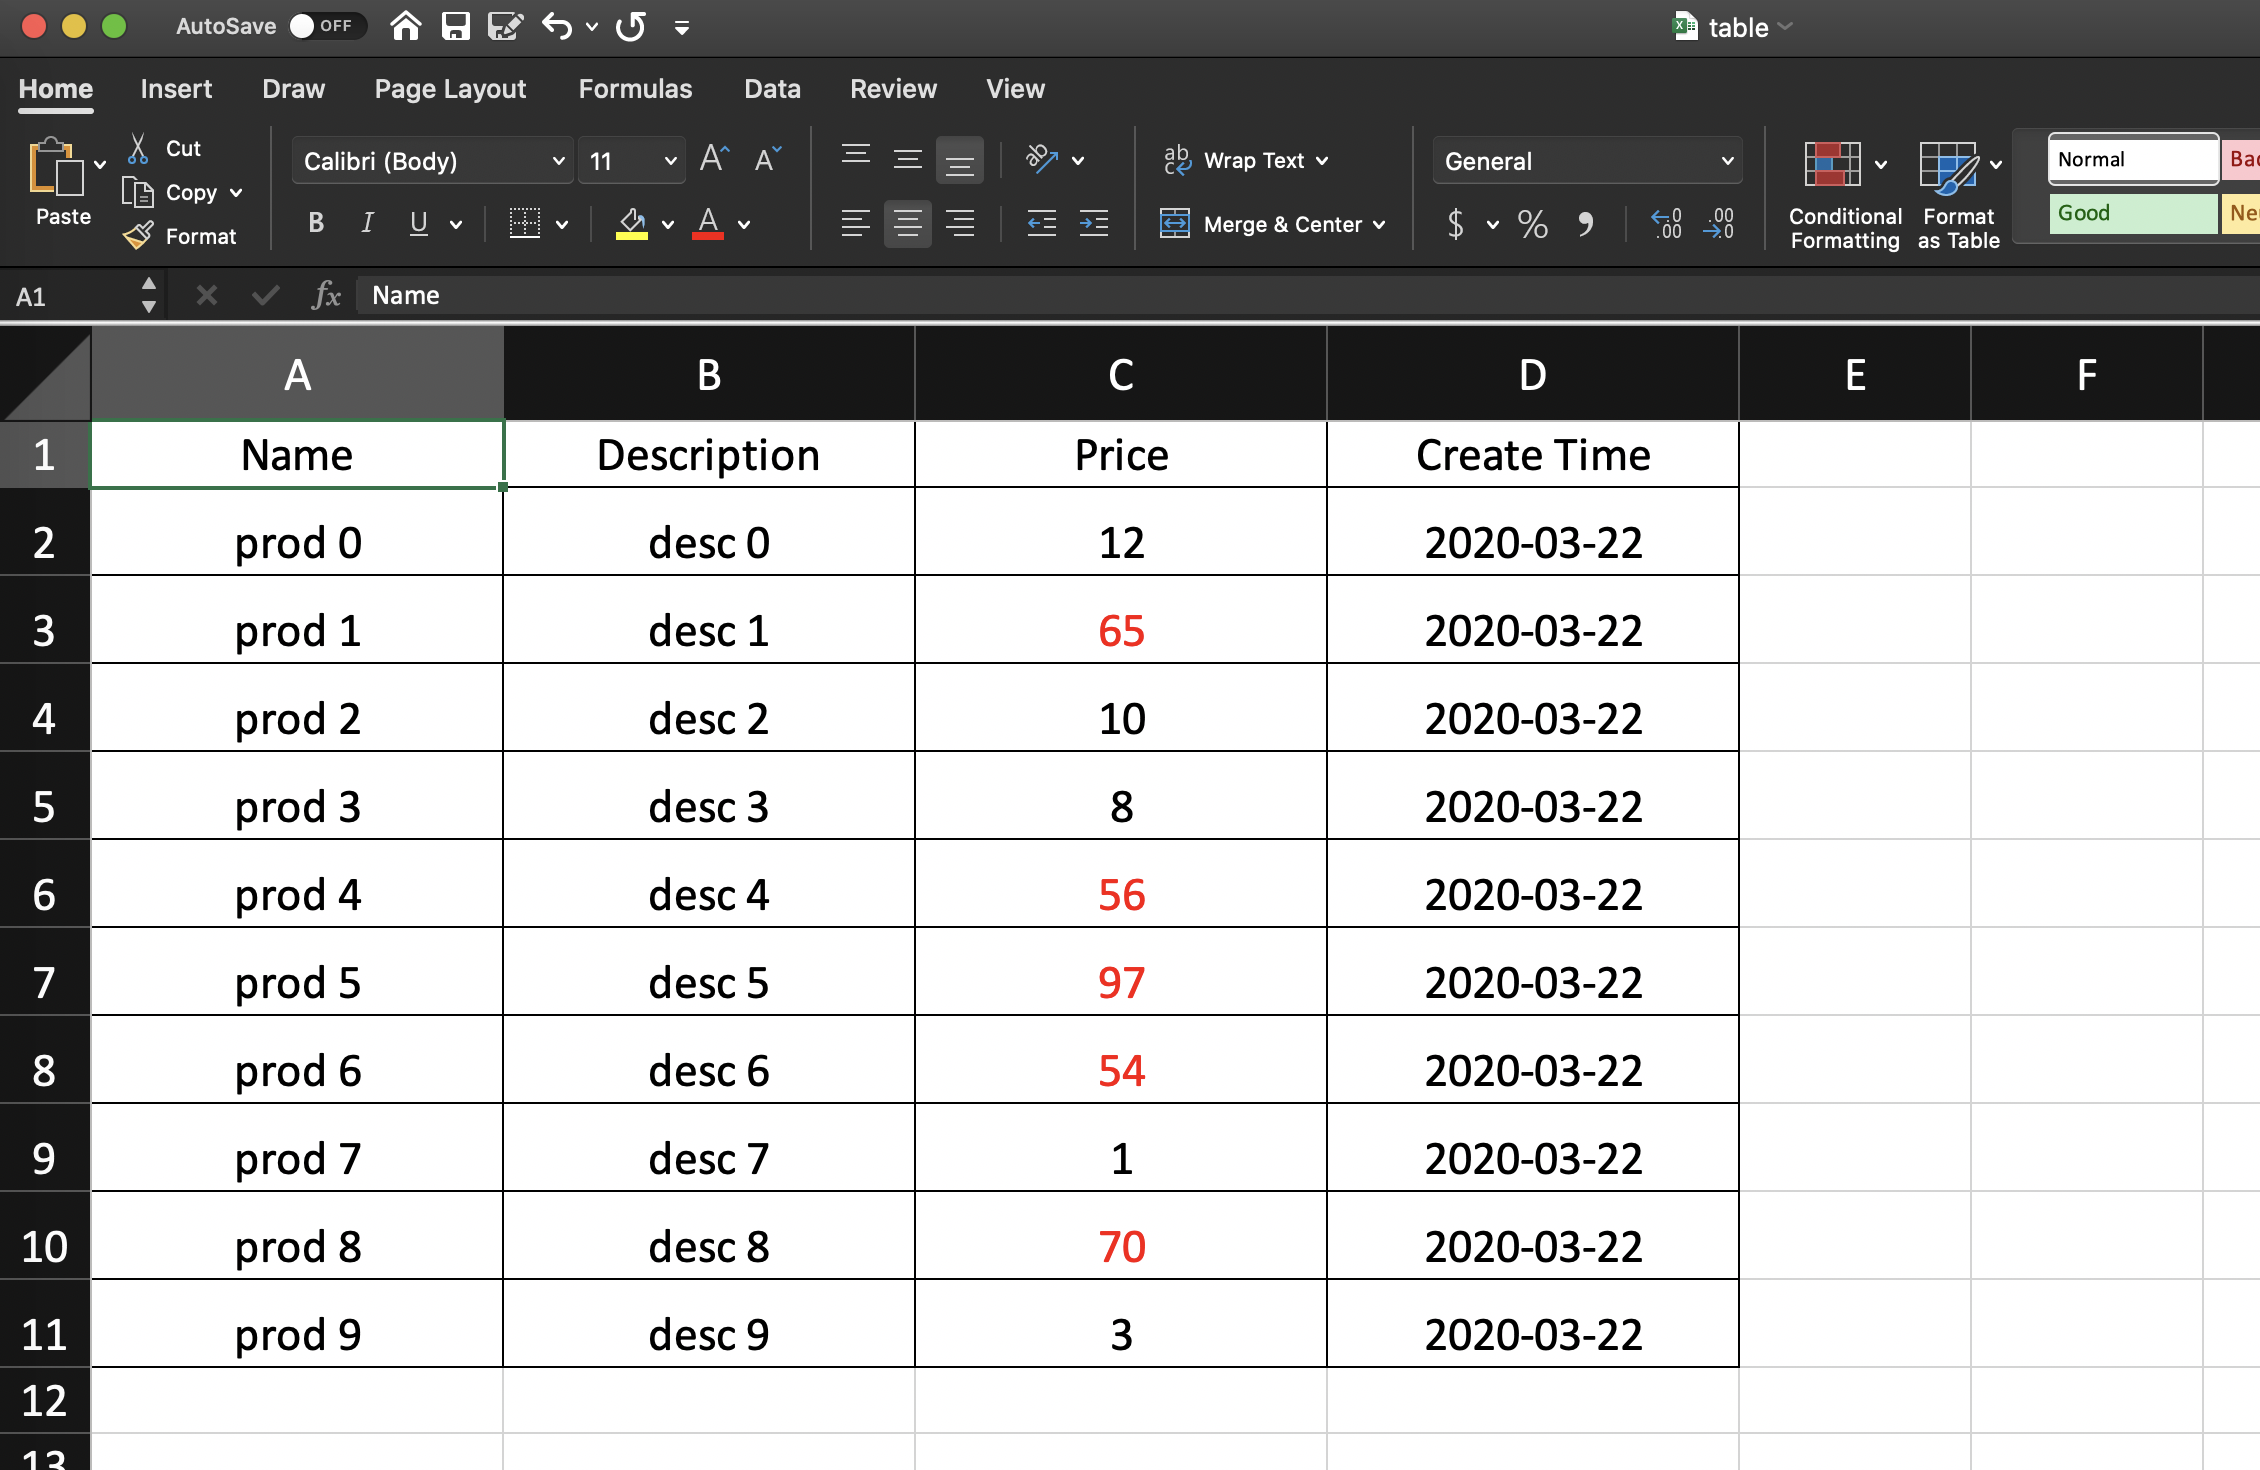
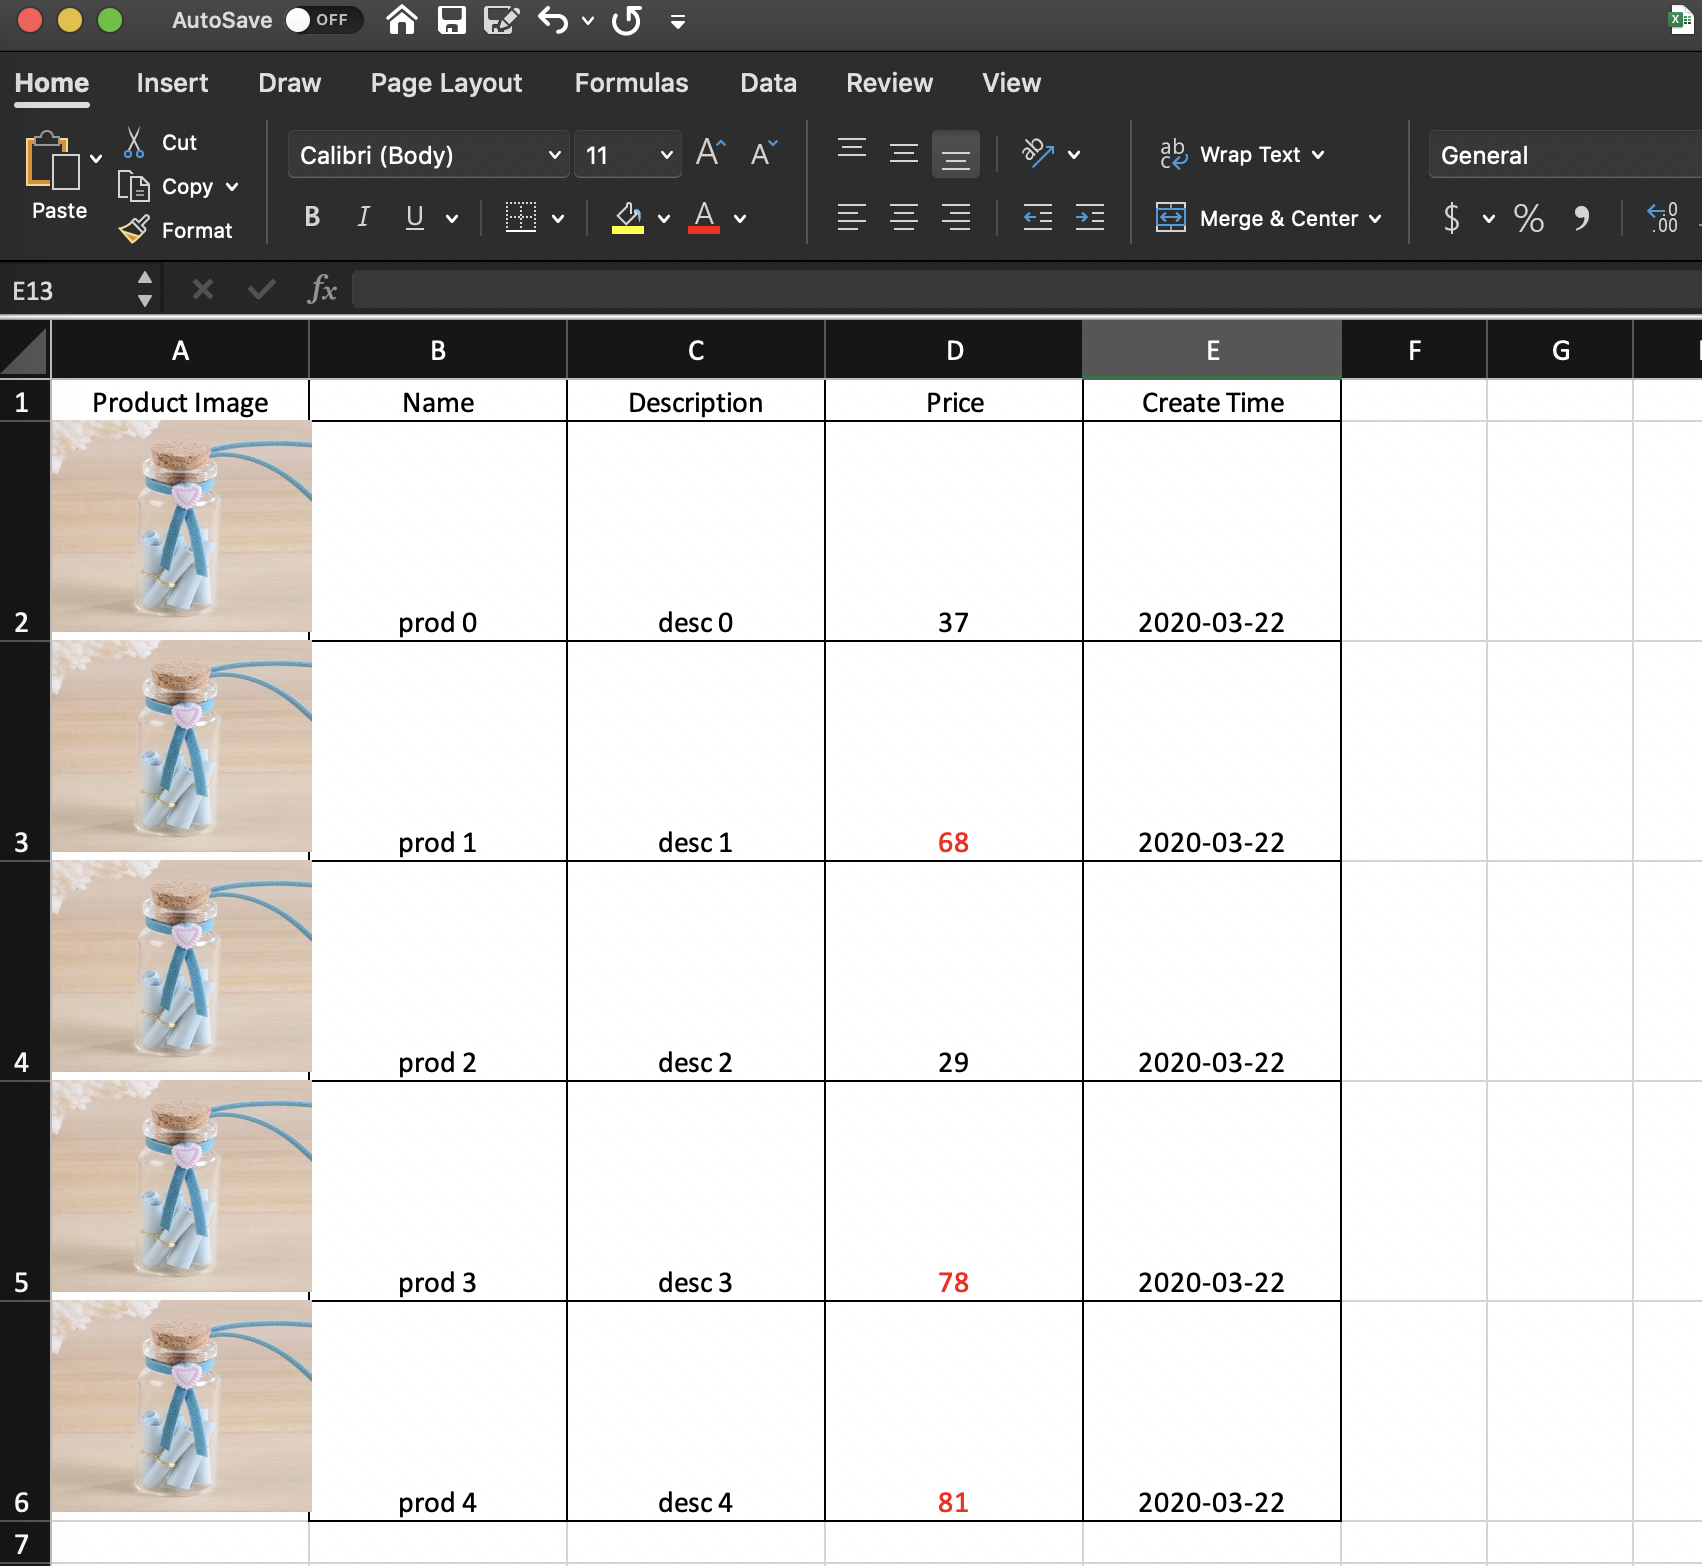
polish docs

diff --git a/main.py b/main.py
@@ -1,32 +1,3 @@
-# Poi: Make creating Excel XLSX files fun again.
-
-![travis](https://travis-ci.org/baoshishu/poi.svg?branch=master)
-
-Poi helps you write Excel sheet in a declarative way, ensuring you have a better Excel writing experience.
-
-It only supports Python 3.7+.
-
-## Quick start
-
-Create a sheet object and write to a file.
-
-```python
-from poi import Sheet, Cell
-sheet = Sheet(
-    root=Cell("hello world")
-)
-
-sheet.write('hello.xlsx')
-```
-
-![hello](./docs/assets/hello.png)
-
-See, it's pretty simple and clear.
-
-
-Sample for rendering a simple table.
-
-```python
 from typing import NamedTuple
 from datetime import datetime
 import random
@@ -78,6 +49,3 @@ sheet = Sheet(
     )
 )
 sheet.write("table.xlsx")
-```
-
-![table](./docs/assets/table.png)

diff --git a/docs/basic-usage.md b/docs/basic-usage.md
@@ -60,28 +60,45 @@ class Product(NamedTuple):
     desc: str
     price: int
     created_at: datetime
+    img: str
 
 
 data = [
-    Product(name=f"prod {i}", desc=f"desc {i}", price=random.randint(1, 100), created_at=datetime.now())
-    for i in range(10)
+    Product(
+        name=f"prod {i}",
+        desc=f"desc {i}",
+        price=random.randint(1, 100),
+        created_at=datetime.now(),
+        img="./docs/assets/product.jpg",
+    )
+    for i in range(5)
 ]
-columns = [("name", "Name"), ("desc", "Description"), ("price", "Price"), ("created_at", "Create Time")]
+columns = [
+    {
+        "type": "image",
+        "attr": "img",
+        "title": "Product Image",
+        "options": {"x_scale": 0.27, "y_scale": 0.25},
+    },
+    ("name", "Name"),
+    ("desc", "Description"),
+    ("price", "Price"),
+    ("created_at", "Create Time"),
+]
 sheet = Sheet(
     root=Table(
         data=data,
         columns=columns,
-        cell_width=20,
+        row_height=80,
         cell_style={
-            "color: red": lambda record, col: col.attr == "price"
-                                              and record.price > 50
+            "color: red": lambda record, col: col.attr == "price" and record.price > 50
         },
         date_format="yyyy-mm-dd",
         align="center",
         border=1,
     )
 )
-sheet.write('table.xlsx')
+sheet.write("table.xlsx")
 
 ```
 
